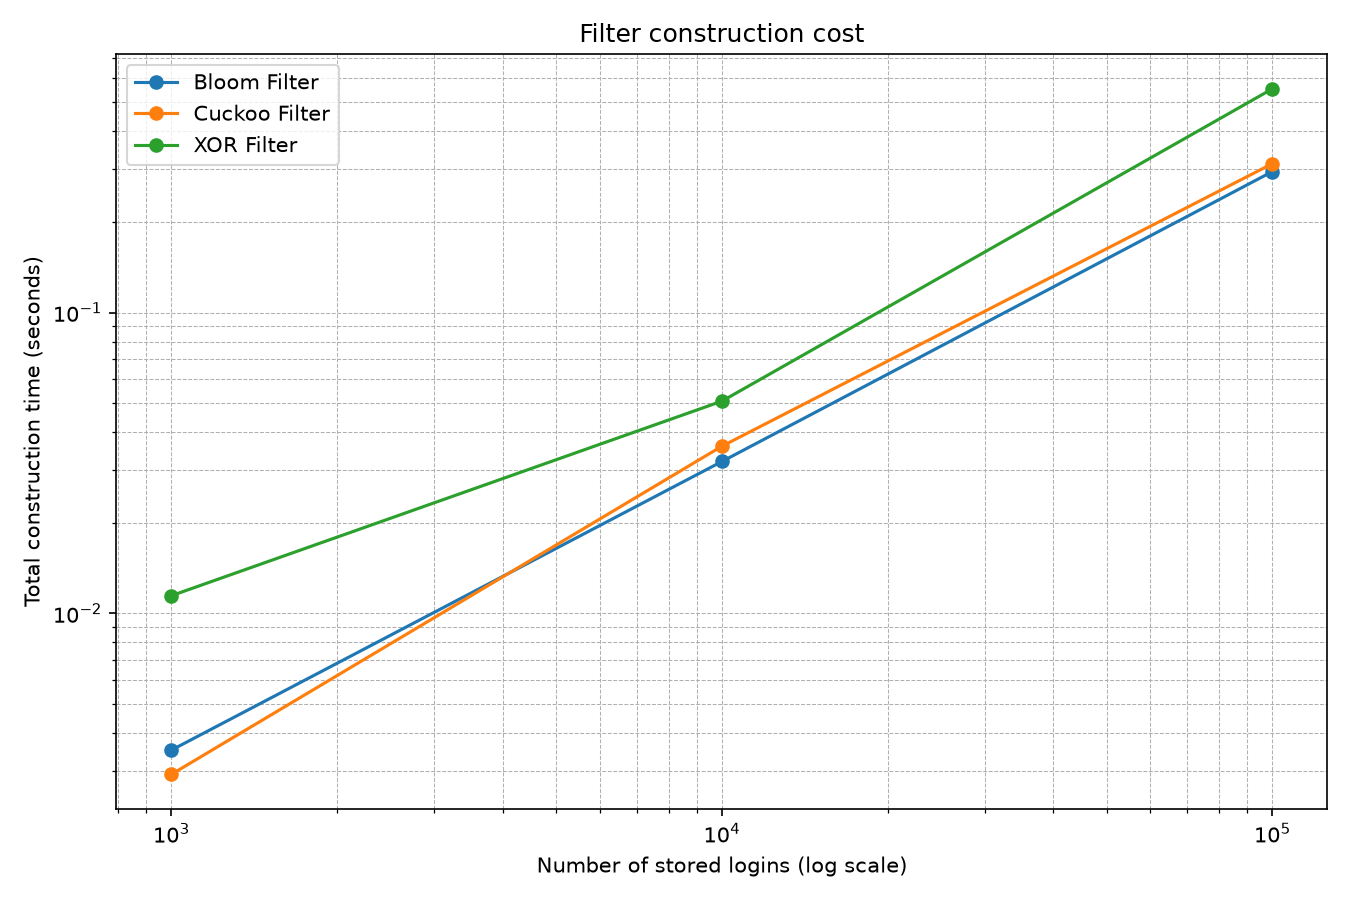
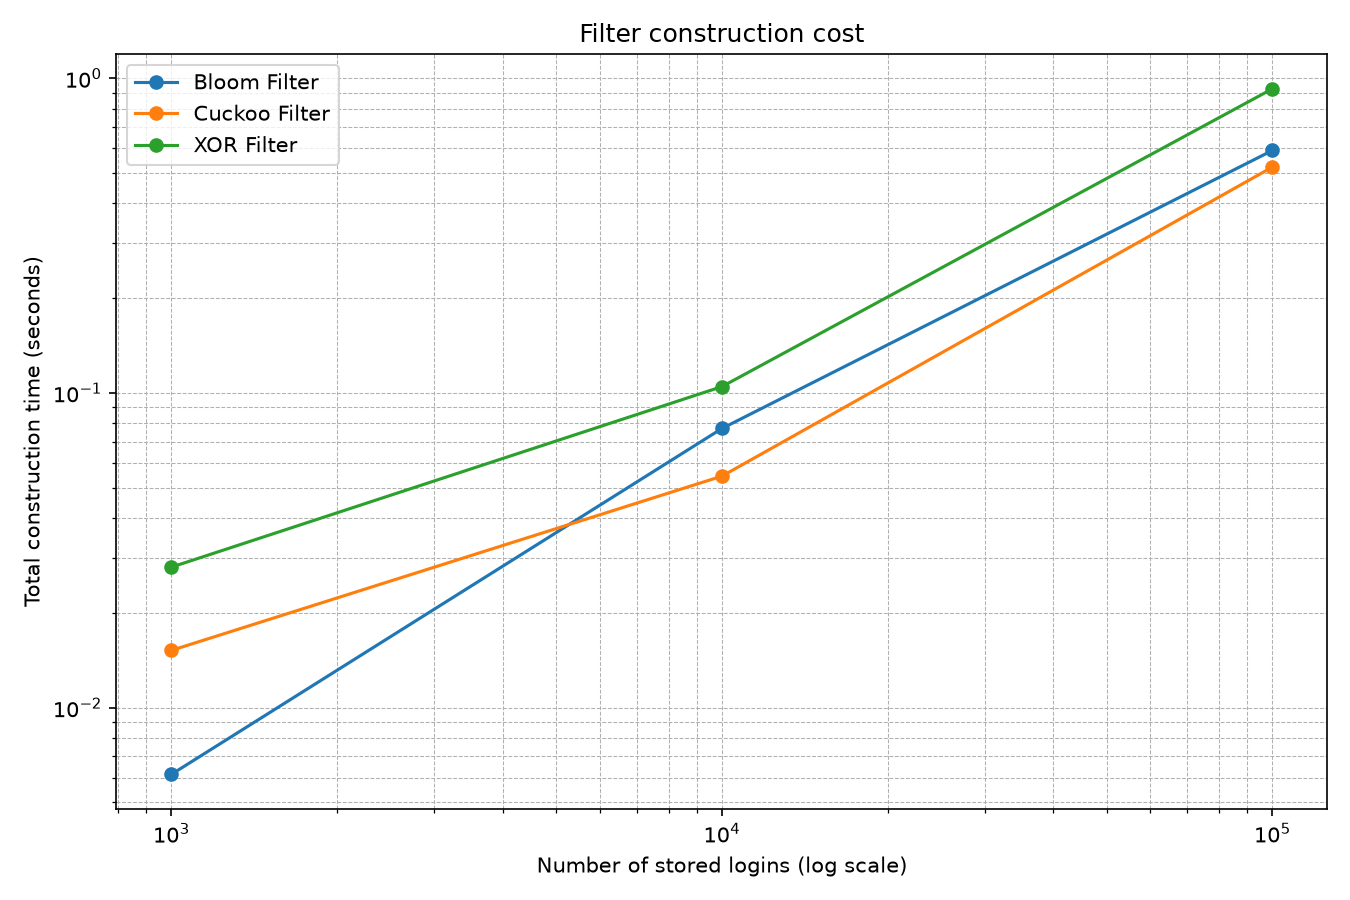
fixing bugs with cuckoo filter and hash table tests

diff --git a/tests/test_hash_table.py b/tests/test_hash_table.py
@@ -1,0 +1,131 @@
+"""Unit tests for the HashTable data structure."""
+
+import pytest
+
+from src.hash_table import HashTable
+from tests.conftest import DUPLICATE_CASES
+
+
+@pytest.mark.parametrize("logins, expected", DUPLICATE_CASES)
+def test_duplicate_detection(logins, expected):
+    """Each login is reported as taken only after its first occurrence."""
+    checker = HashTable()
+    for login, already_taken in zip(logins, expected):
+        assert checker.check(login) == already_taken
+        if not already_taken:
+            checker.add(login)
+
+
+def test_empty_structure_finds_nothing():
+    """An empty table reports every query as absent."""
+    checker = HashTable()
+    assert checker.check("parinda") is False
+    assert checker.check("") is False
+
+
+def test_single_login():
+    """A table holding one login finds it and rejects others."""
+    checker = HashTable()
+    checker.add("parinda")
+    assert checker.check("parinda") is True
+    assert checker.check("someone_else") is False
+
+
+def test_no_false_negatives(stored_logins):
+    """Every login that was added is always reported as present."""
+    checker = HashTable()
+    for login in stored_logins:
+        checker.add(login)
+    for login in stored_logins:
+        assert checker.check(login) is True
+
+
+def test_no_false_positives(stored_logins, absent_logins):
+    """Exact membership: logins never added are reported as absent."""
+    checker = HashTable()
+    for login in stored_logins:
+        checker.add(login)
+    for login in absent_logins:
+        assert checker.check(login) is False
+
+
+def test_resizes_as_it_grows(stored_logins):
+    """Capacity increases so that the load factor stays within bounds.
+
+    Without resizing, chains would lengthen with n and lookup would
+    degrade from constant to linear time.
+    """
+    checker = HashTable(capacity=16)
+    for login in stored_logins:
+        checker.add(login)
+
+    assert checker.capacity > 16
+    assert checker.count / checker.capacity <= checker.max_load
+
+
+def test_resize_preserves_every_login(stored_logins):
+    """No login is lost when the table is rehashed into more buckets.
+
+    Bucket indices depend on the capacity, so entries must be
+    redistributed rather than copied.
+    """
+    checker = HashTable(capacity=2)
+    for login in stored_logins:
+        checker.add(login)
+
+    assert checker.count == len(stored_logins)
+    for login in stored_logins:
+        assert checker.check(login) is True
+
+
+def test_duplicates_do_not_grow_the_table():
+    """Adding the same login repeatedly leaves the stored count at one."""
+    checker = HashTable()
+    for _ in range(100):
+        checker.add("parinda")
+
+    assert checker.count == 1
+    assert checker.check("parinda") is True
+
+
+def test_survives_forced_collisions():
+    """Logins sharing a bucket are all still found.
+
+    A single-bucket table forces every login into the same chain, which
+    exercises the collision path that a well-distributed hash function
+    would otherwise rarely reach.
+    """
+    checker = HashTable(capacity=1, max_load=1000)
+    logins = [f"user_{i}" for i in range(50)]
+    for login in logins:
+        checker.add(login)
+
+    assert len(checker.buckets) == 1
+    for login in logins:
+        assert checker.check(login) is True
+    assert checker.check("user_999") is False
+
+
+def test_build_matches_incremental_adds(stored_logins):
+    """Bulk loading stores the same logins as repeated add() calls."""
+    incremental = HashTable()
+    for login in stored_logins:
+        incremental.add(login)
+
+    bulk = HashTable()
+    bulk.build(stored_logins)
+
+    assert bulk.count == incremental.count
+    for login in stored_logins:
+        assert bulk.check(login) is True
+
+
+def test_handles_unusual_strings():
+    """Empty, long, non-ASCII, and symbol-bearing logins are handled."""
+    checker = HashTable()
+    unusual = ["", "x" * 1_000, "user@domain.com", "日本語", "  spaces  "]
+    for item in unusual:
+        checker.add(item)
+    for item in unusual:
+        assert checker.check(item) is True
+    assert checker.check("not_added") is False

diff --git a/src/cuckoo_filter.py b/src/cuckoo_filter.py
@@ -50,7 +50,8 @@ class CuckooFilter:
 
         # Extra room beyond the expected count, since insertion failure
         # becomes likely as occupancy approaches capacity.
-        self.table_size = math.ceil(expected_items / bucket_size / load_factor)
+        required = math.ceil(expected_items / bucket_size / load_factor)
+        self.table_size = 1 << (max(1, required) - 1).bit_length()
 
         self.fingerprint_mask = (1 << fingerprint_bits) - 1
         self.buckets = [[] for _ in range(self.table_size)]
